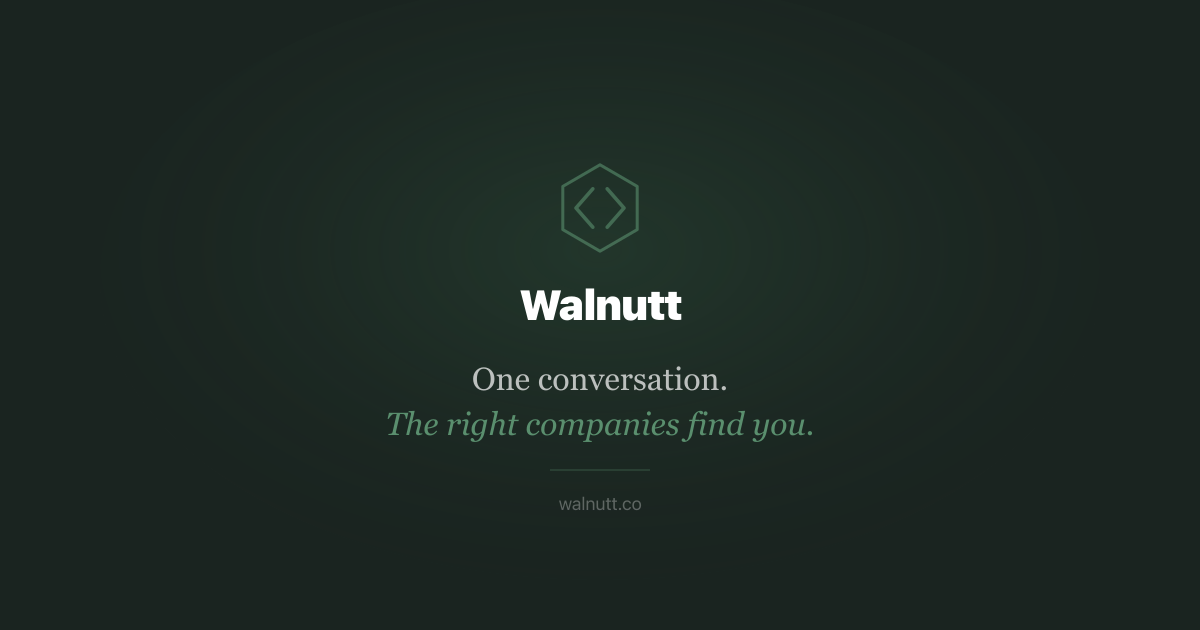
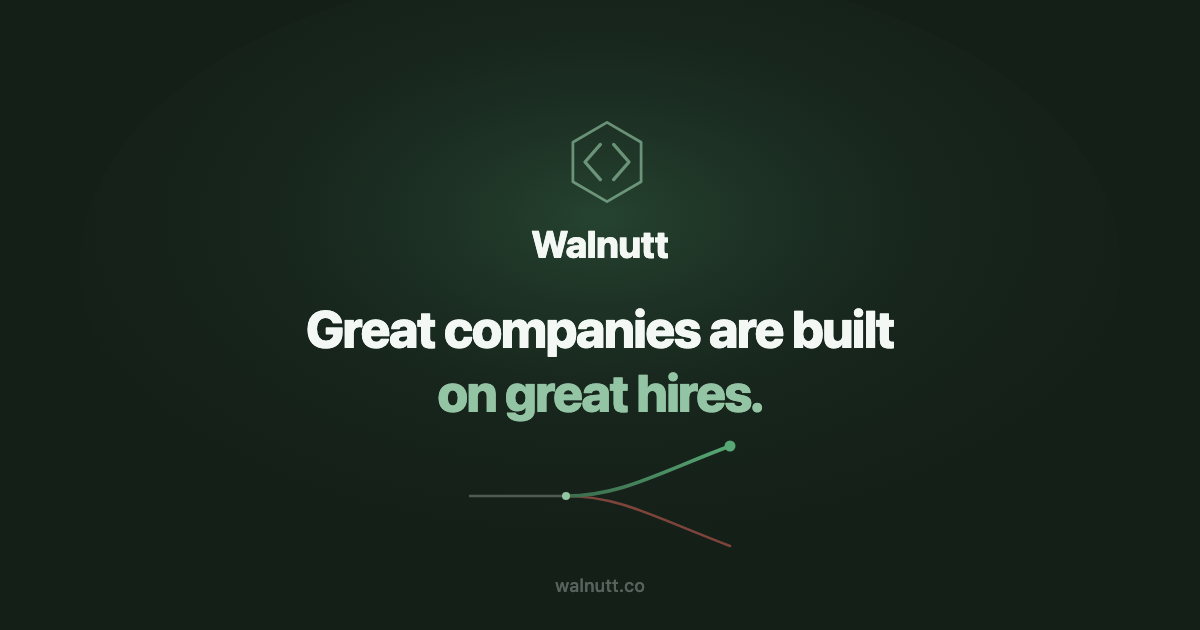
chore(seo): update meta, schema, llms.txt, sitemap and og-image to v7
The site's copy is now the Capability / Fit / Intent story, so the
metadata follows it: title, description, OG and Twitter cards, and both
JSON-LD blocks. theme-color moves to the new brand green. Per-route
Helmet also emits og:url, which used to stay pinned to the homepage on
every route.

llms.txt keeps its Engineers section and gets a rewritten Companies
section covering the three scores and the four machinery stages.

og-image.svg is redrawn on the new palette with the new headline and a
compressed K-curve, and re-exported to PNG at 1200x630.

Claude-Session: https://claude.ai/code/session_01Y7BZ7vdordGyVq6CLT2ciF

diff --git a/index.html b/index.html
@@ -4,14 +4,14 @@
   <head>
     <meta charset="UTF-8" />
     <meta name="viewport" content="width=device-width, initial-scale=1.0" />
-    <title>Walnutt — Outgrow the hiring cycle.</title>
-    <meta name="description" content="The hiring process that also onboards. Built around your actual context. Turning months into days. Hiring infrastructure for engineering teams — and for engineers, one real conversation that lets the right companies find you." />
+    <title>Walnutt — Great companies are built on great hires.</title>
+    <meta name="description" content="Capability, fit and joining intent — scored for this person, in this role. Hiring infrastructure for engineering teams, from the first conversation to day one." />
     <meta name="robots" content="index, follow" />
     <link rel="canonical" href="https://walnutt.co/" />
 
     <!-- Open Graph -->
-    <meta property="og:title" content="Walnutt — Outgrow the hiring cycle." />
-    <meta property="og:description" content="The hiring process that also onboards. Built around your actual context. Turning months into days." />
+    <meta property="og:title" content="Walnutt — Great companies are built on great hires." />
+    <meta property="og:description" content="Capability, fit and joining intent — scored for this person, in this role." />
     <meta property="og:type" content="website" />
     <meta property="og:url" content="https://walnutt.co/" />
     <meta property="og:site_name" content="Walnutt" />
@@ -22,8 +22,8 @@
 
     <!-- Twitter Card -->
     <meta name="twitter:card" content="summary_large_image" />
-    <meta name="twitter:title" content="Walnutt — Outgrow the hiring cycle." />
-    <meta name="twitter:description" content="The hiring process that also onboards. Turning months into days." />
+    <meta name="twitter:title" content="Walnutt — Great companies are built on great hires." />
+    <meta name="twitter:description" content="Capability, fit and joining intent — scored for this person, in this role." />
     <meta name="twitter:image" content="https://walnutt.co/og-image.png" />
 
     <meta name="theme-color" content="#3C6E4E" />
@@ -37,7 +37,7 @@
       "name": "Walnutt",
       "url": "https://walnutt.co",
       "logo": "https://walnutt.co/favicon.svg",
-      "description": "Hiring infrastructure for engineering teams. The hiring process that also onboards — built around your actual context, turning months into days. For engineers: one real conversation and the right companies find you.",
+      "description": "Hiring infrastructure for engineering teams. Every candidate is scored on three questions — can they do it, how well do they fit, and will they join — and the score is held from the first conversation to day one. For engineers: one real conversation, and the right companies find you.",
       "founder": {
         "@type": "Organization",
         "name": "3P Labs Private Limited"
@@ -57,12 +57,12 @@
       "name": "Walnutt",
       "url": "https://app.walnutt.co",
       "applicationCategory": "BusinessApplication",
-      "description": "Hiring infrastructure for engineering teams. The hiring process that also onboards — candidate persona, deep assessment on your stack, active ramp during notice period, day-one contribution. For engineers: one adaptive conversation replaces applications.",
+      "description": "Hiring infrastructure for engineering teams. Context capture, agentic and warm-network sourcing, role-calibrated assessment with live engineer interviews, and joining-intent tracking through the last mile. For engineers: one adaptive conversation replaces applications.",
       "offers": [
         {
           "@type": "Offer",
           "name": "For Companies",
-          "description": "Role Blueprint, Candidate Signal Layer, or Full Stack Engine. Enter the hiring process wherever you are."
+          "description": "Brief the role and the system takes it from there — or bring an offer that is already out and find out whether the candidate will actually join."
         },
         {
           "@type": "Offer",
